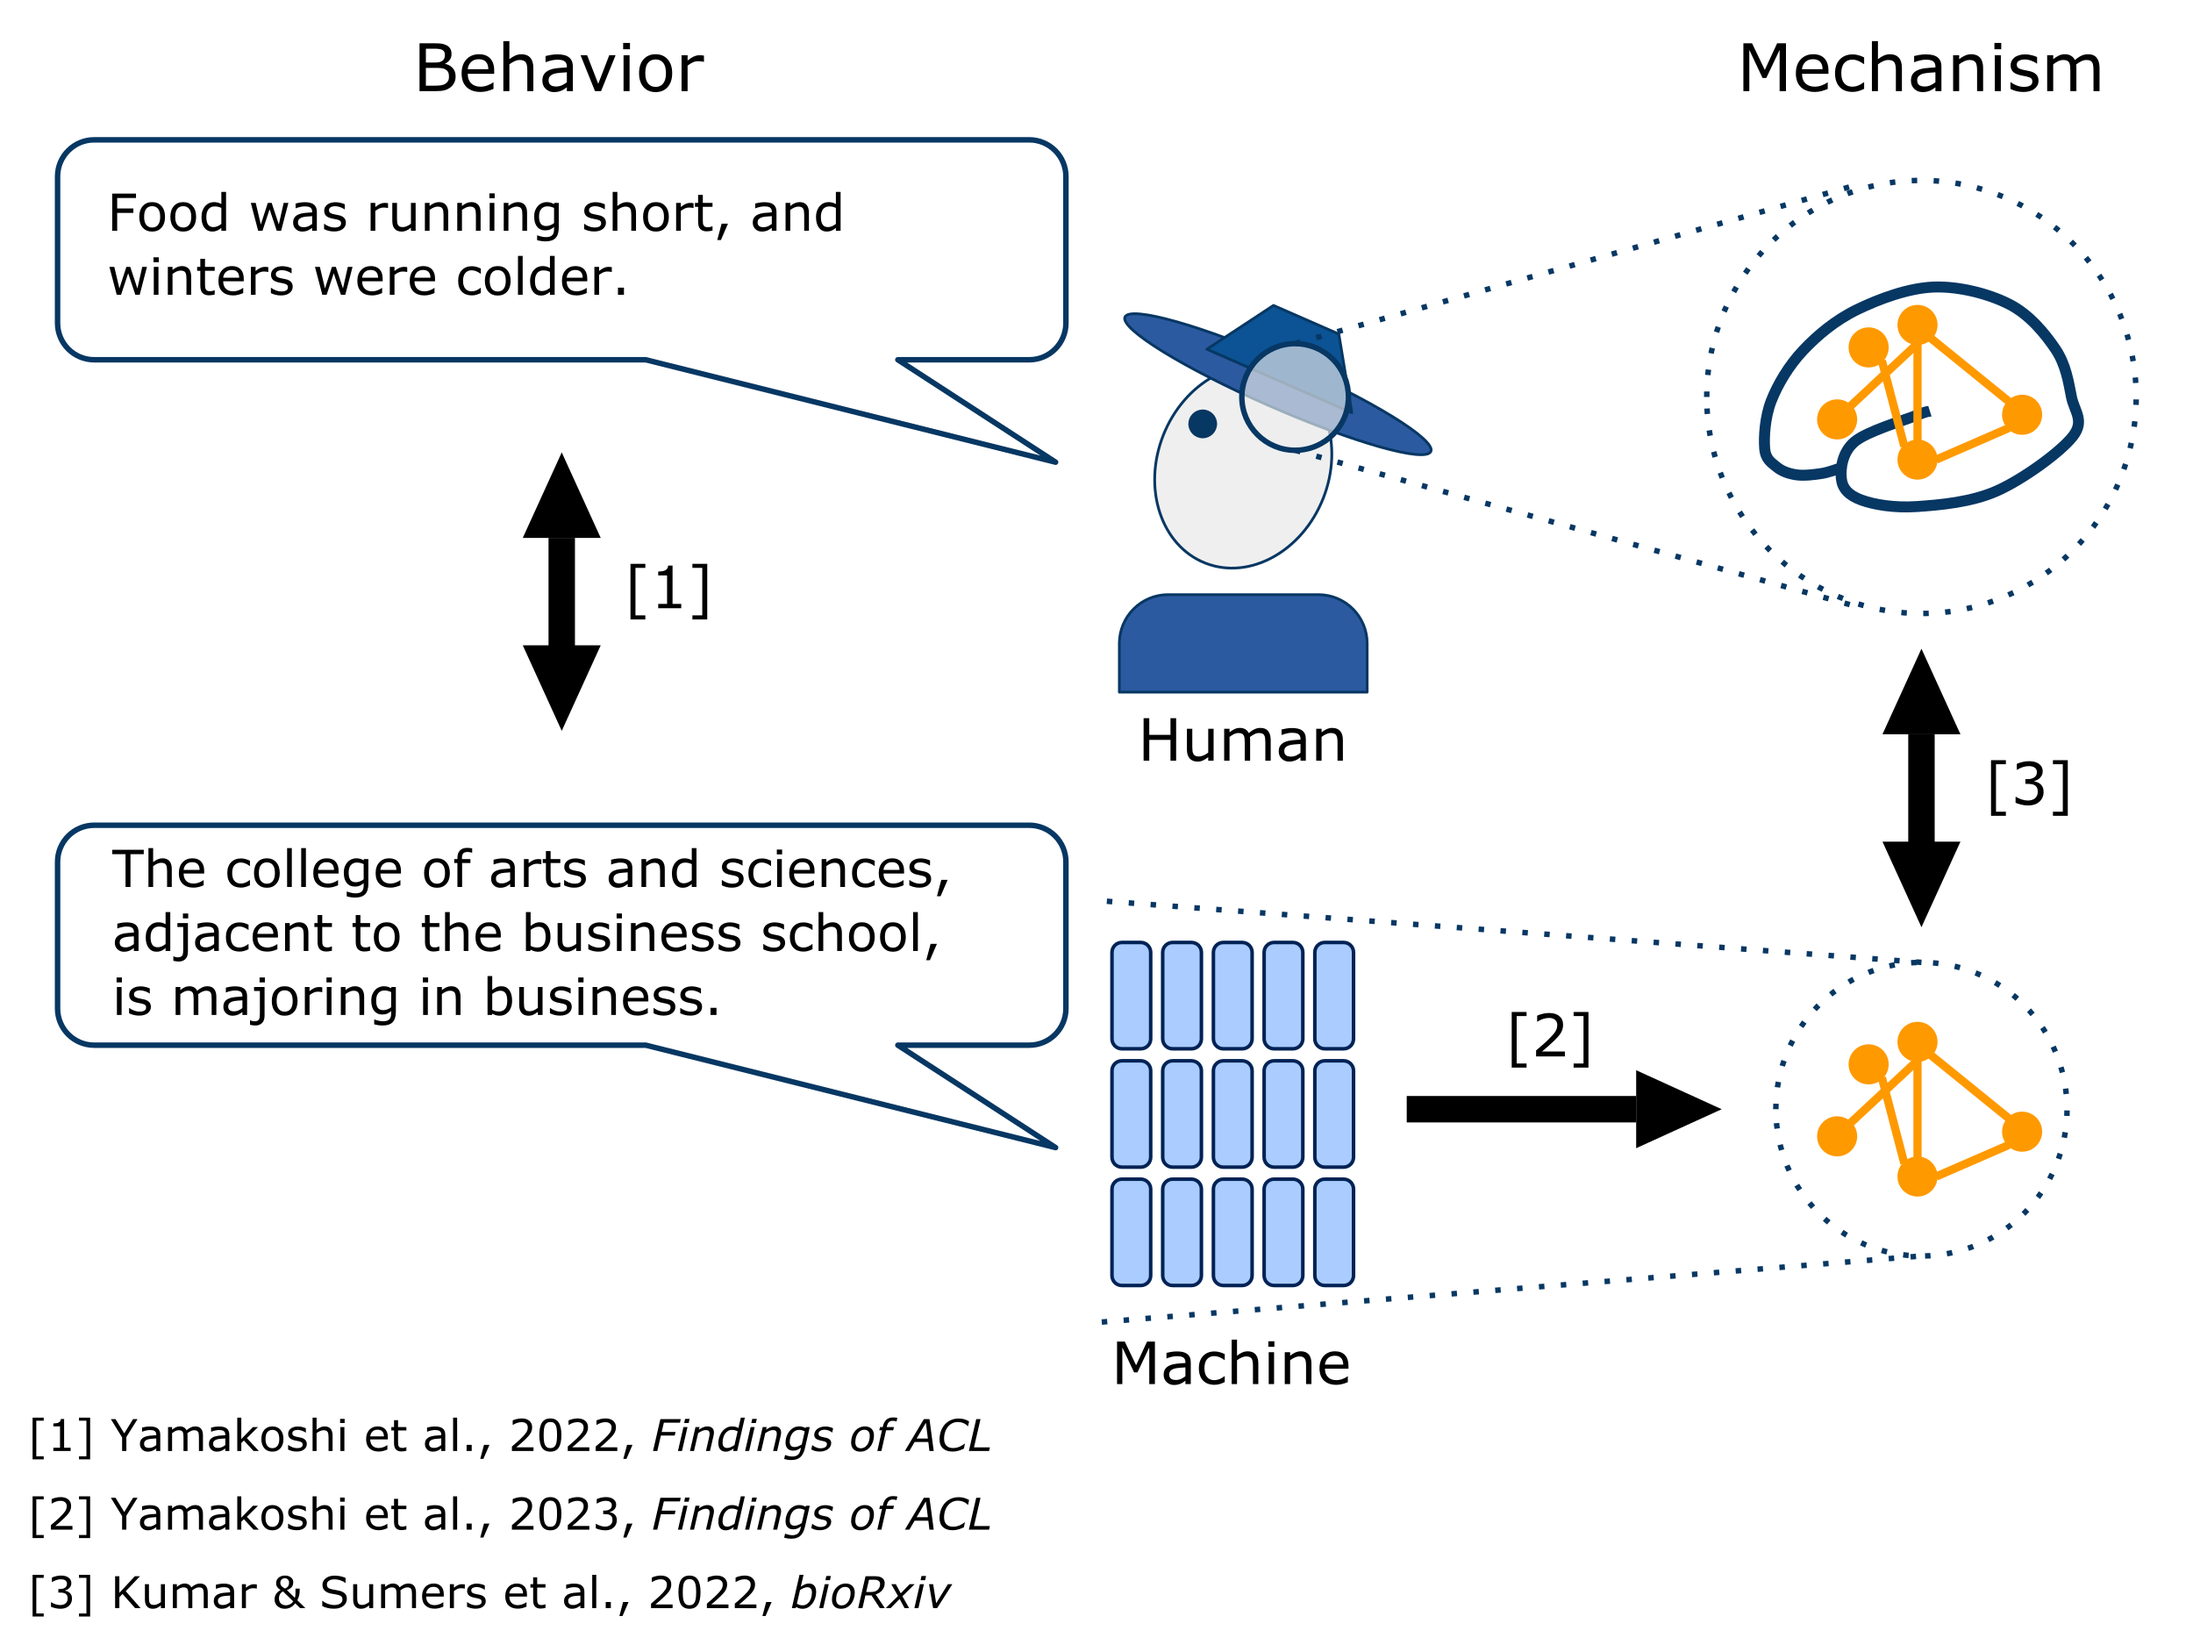
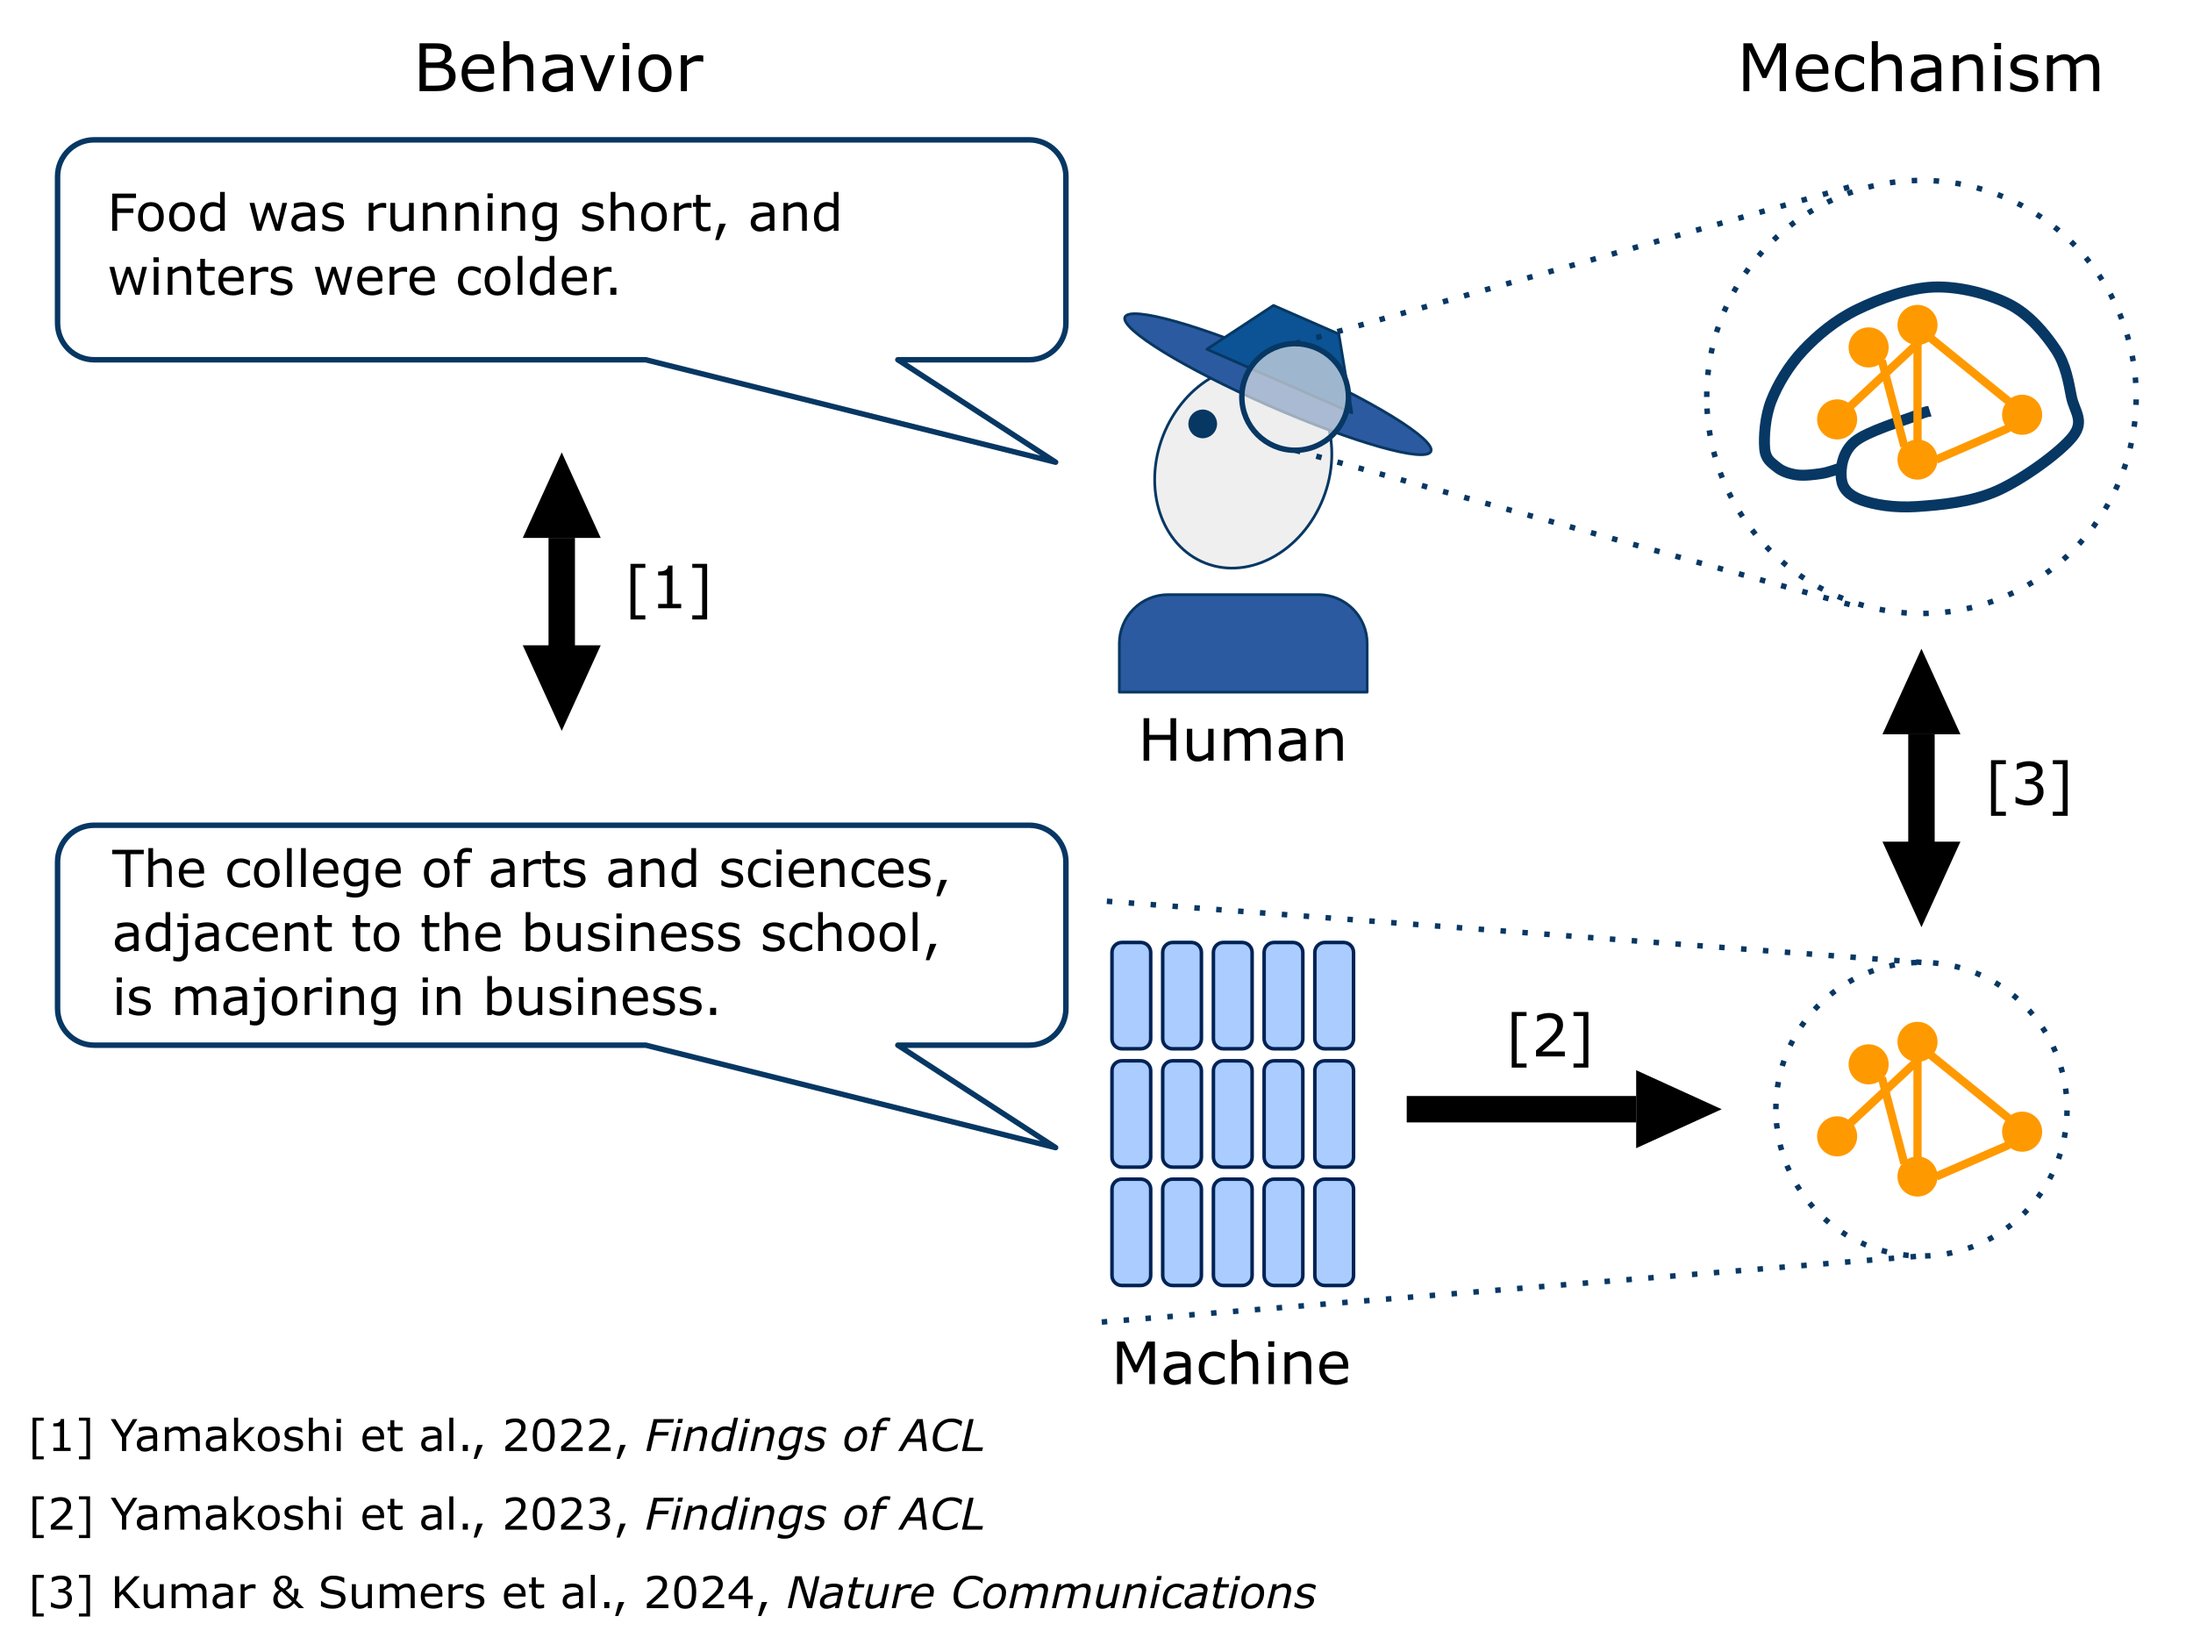
update

diff --git a/_includes/archive-single.html b/_includes/archive-single.html
@@ -26,24 +26,22 @@
       </div>
     {% endif %}
 
-
     {% if post.show_year %}
-      <h2>
-        {{post.year}}
-      </h2>
+    <h2 style="font-size: 1.5em"><b>{{post.year}}</b></h2>
     {% endif %}
-    <h2 class="content">
-      {{title}}
-    </h2>
+    <font size="5"><b>{{title}}</b></font><br>
 
-    <p style="margin-left: 1em;">
+    <span style="margin-left: 1em;">
       {{post.authors}}<br>
+    </span>
+    <span style="margin-left: 1em;">
       {% if post.status == 'published' %}
-        <i>{{post.venue}}</i>, {{post.year}}<br>
+        <i>{{post.venue}}</i><br>
       {% else %}
-        <i>{{post.status}}</i>
+        <i>{{post.status}}</i><br>
       {% endif %}
-
+    </span>
+    <span style="margin-left: 1em;">
       {% if post.demo and post.code %}
       <a href=" {{ post.paperurl }} " target="_blank">paper</a> <a href=" {{ post.code }} " target="_blank">code</a> <a href=" {{ post.demo }} " target="_blank">demo</a>
       {% elsif post.demo %}
@@ -53,7 +51,7 @@
       {% else %}
       <a href=" {{ post.paperurl }} " target="_blank">paper</a>
       {% endif %}
-    </p>
+    </span>
 
   </article>
 </div>

diff --git a/_pages/about.md b/_pages/about.md
@@ -12,7 +12,7 @@ redirect_from:
 I was an exchange student at Princeton University (2019-20) and part of the UTokyo-Princeton Strategic Partnership (2022-23). </p>
 
 <p>My current research aims to identify the internal mechanisms of language processing by humans and machines. <br>
-To this end, I have employed three different approaches. <br>
+To this end, I have employed the following three approaches. <br>
 [1] Compare the linguistic behavior of language models against that of humans. <br>
 [2] Identify the causal mechanism inside the language models. <br>
 [3] Compare the internal representations of language models against neural recordings. </p>

diff --git a/_publications/2024-06-09-bert-brains.md b/_publications/2024-06-09-bert-brains.md
@@ -4,10 +4,10 @@ authors: "S Kumar*, TR Sumers*, <b>T Yamakoshi</b>, A Goldstein, U Hasson, KA No
 collection: publications
 permalink: /publication/bert-brains
 excerpt: 'Paper Description'
-date: '2022-06-09'
-year: '2022'
-status: 'submitted'
-#venue: ''
+date: '2024-06-09'
+year: '2024'
+status: 'published'
+venue: 'Nature Communications'
 paperurl: 'https://www.biorxiv.org/content/10.1101/2022.06.08.495348v4'
 code: 'https://github.com/tsumers/bert-brains'
 show_year: true

diff --git a/_publications/2022-05-22-bert-prior.md b/_publications/2022-05-22-bert-prior.md
@@ -11,4 +11,5 @@ venue: 'the Findings of Association for Computational Linguistics (ACL)'
 paperurl: 'https://aclanthology.org/2022.findings-acl.314/'
 code: 'https://github.com/taka-yamakoshi/TelephoneGame'
 demo: 'https://huggingface.co/spaces/taka-yamakoshi/bert-priors-demo'
+show_year: true
 ---
